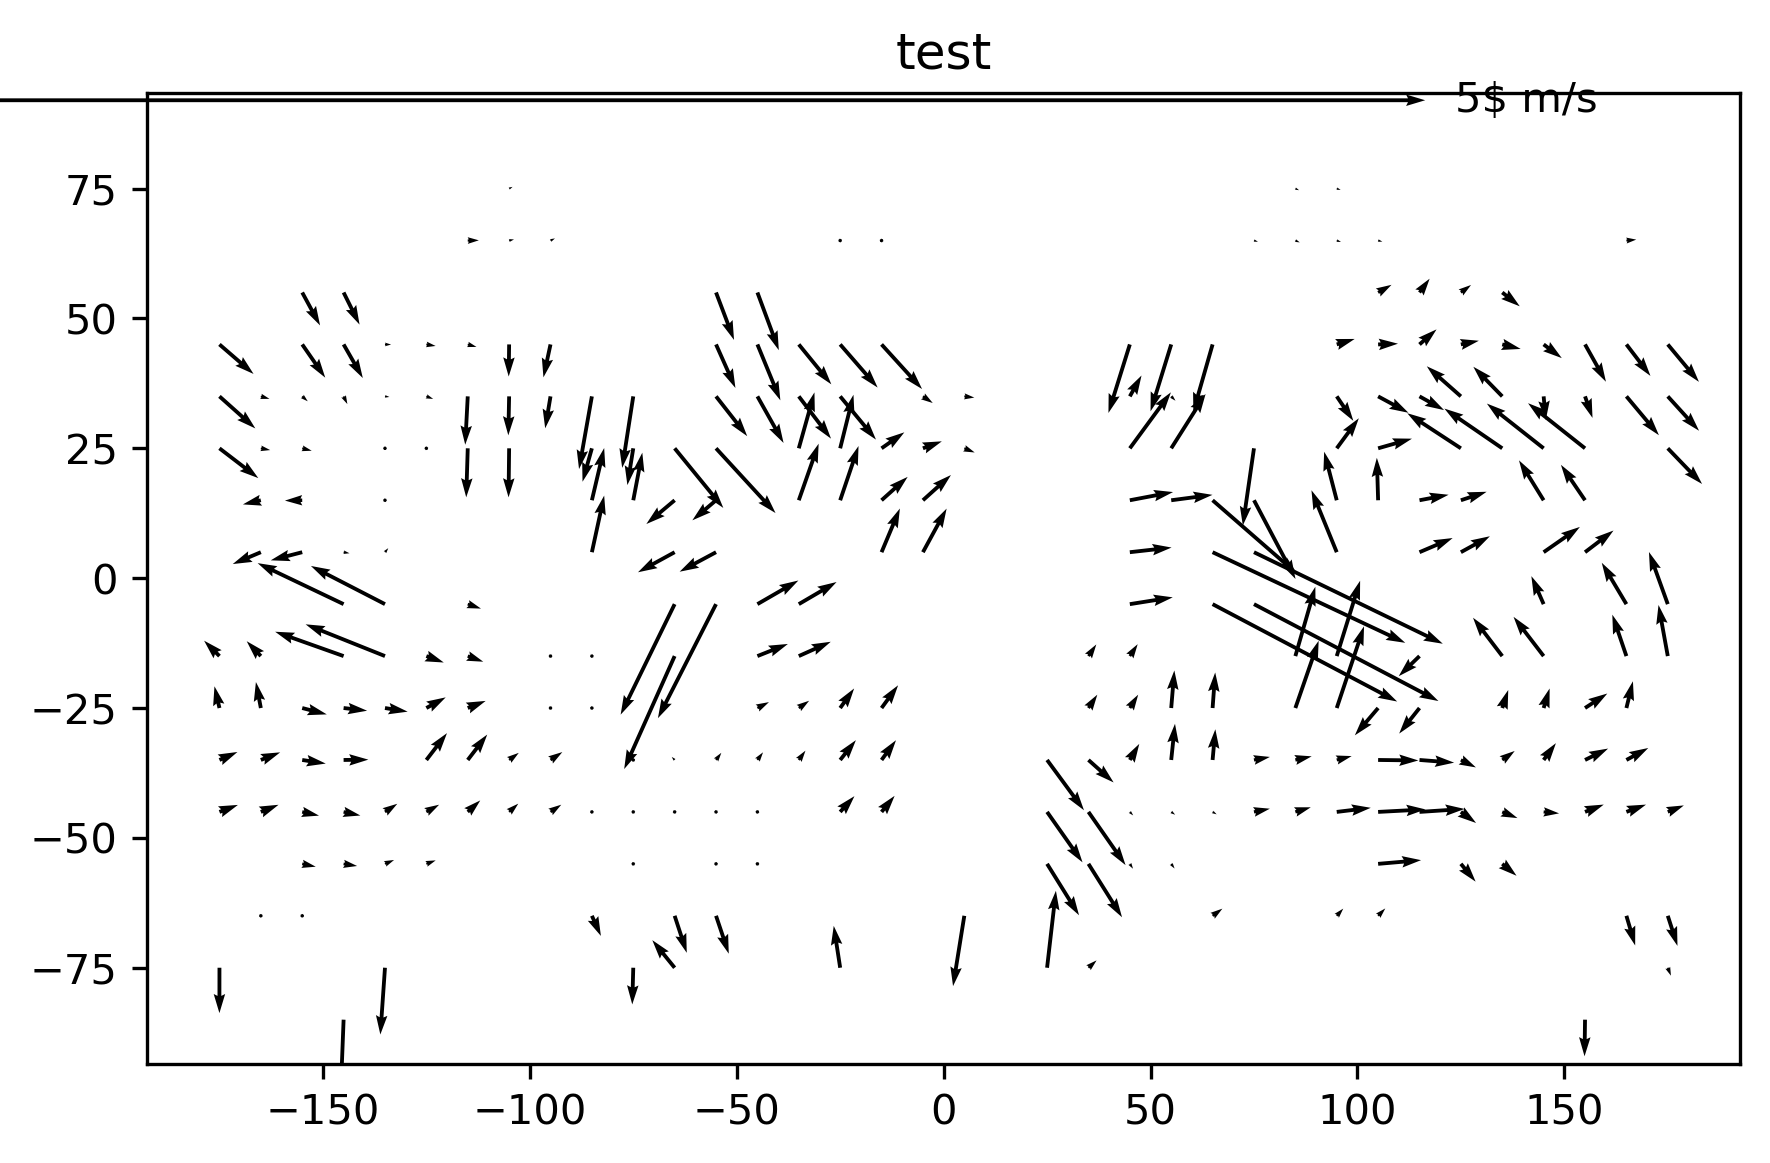
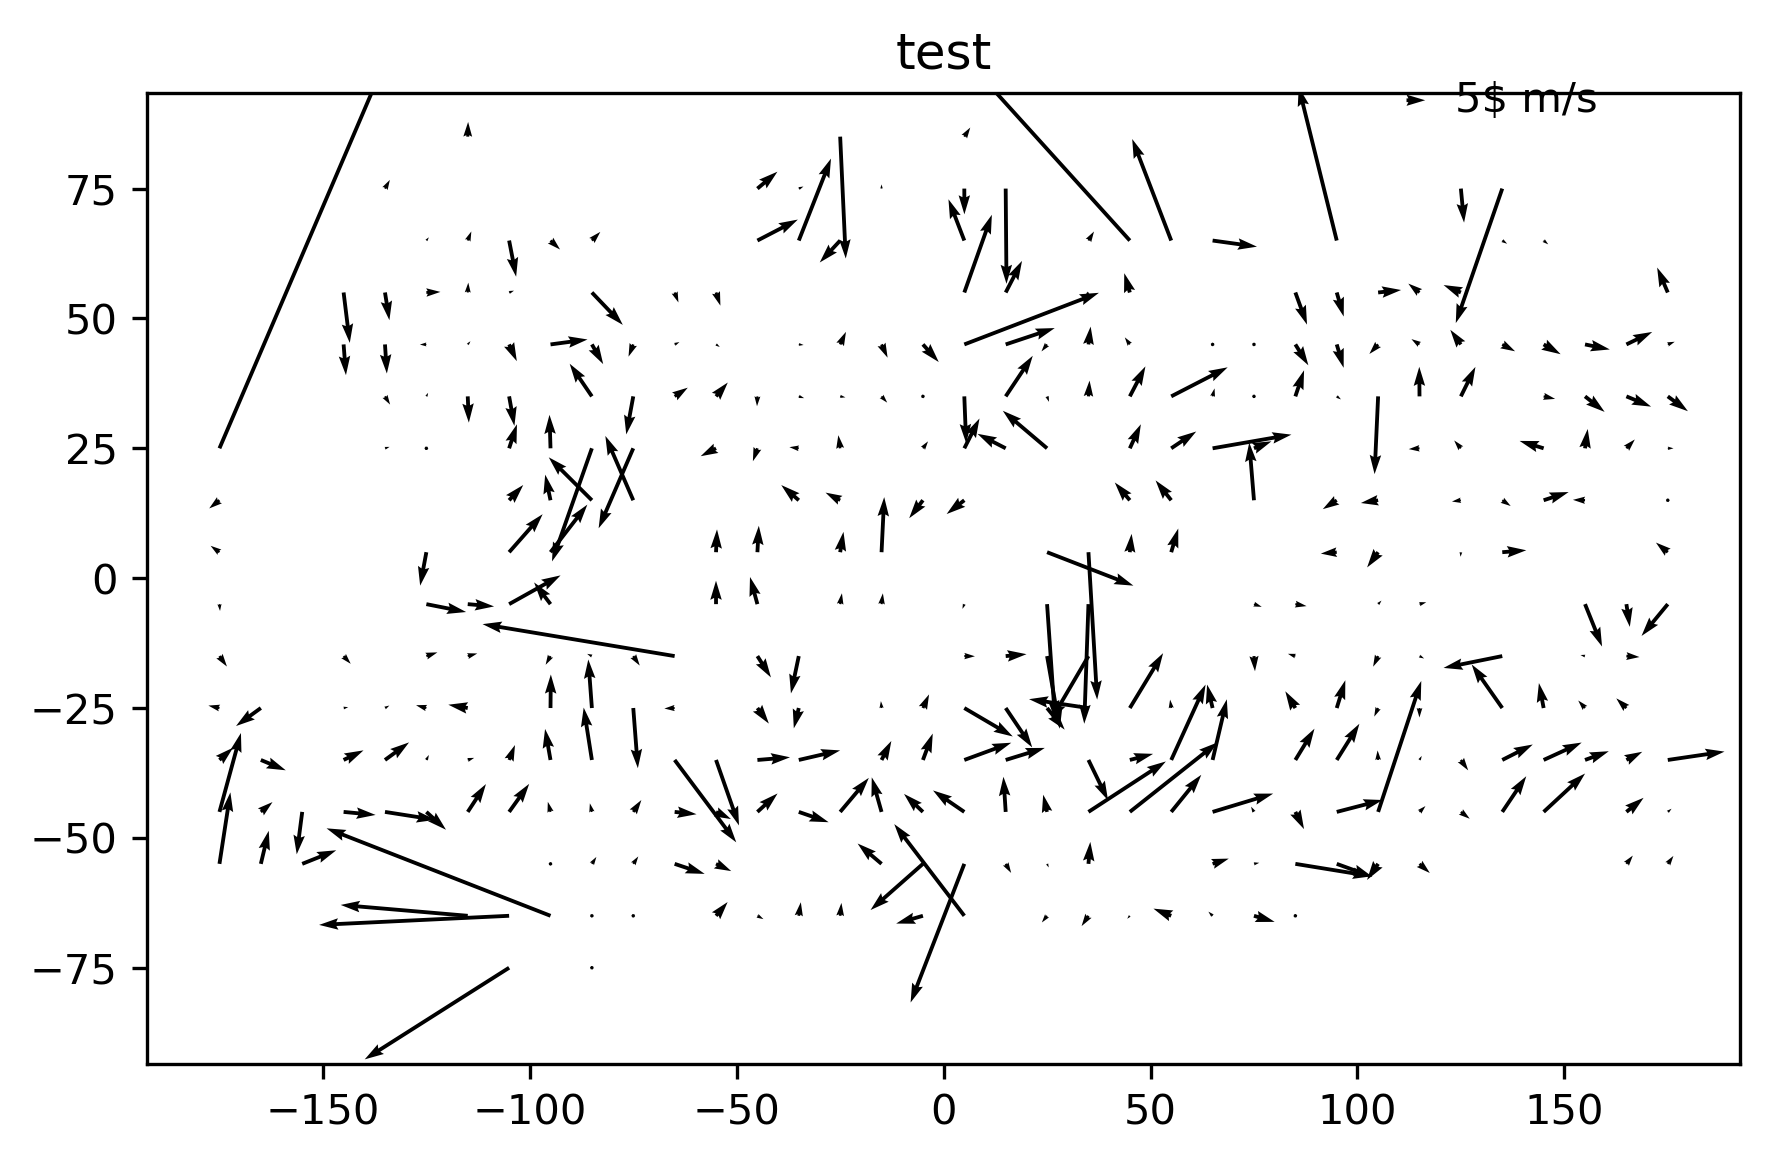
plots for presentation

diff --git a/src/quiver.py b/src/quiver.py
@@ -27,26 +27,31 @@ def quiver_plot(ds, title, u, v):
     
 
 def main():
-    ds=xr.open_dataset('../data/processed/real_water_vapor_noqc_test2.nc')
+    ds=xr.open_dataset('../data/processed/real_water_vapor_noqc_test2_tvl1.nc')
     print(ds)
-    breakpoint()
     ds['theta']=  np.arctan(ds['v']/ ds['u'])
     print(abs(ds['flowx']).mean())
     print(abs(ds['u']).mean())
+    print(abs(ds['u_era5']).mean())
     print(abs(ds['flowy']).mean())
     print(abs(ds['v']).mean())
     print(abs(ds['dt_inv']).mean())
     print(abs(ds['theta']).mean())
-    ds['u'].plot.hist(bins=100)
-    plt.show()
-    plt.close()
-    ds['theta'].plot.hist(bins=100)
-    plt.show()
-    plt.close()
+    
 
-    ds_map=ds.loc[{'day':datetime(2020,7,3),'plev':slice(706,707),'time':'am','satellite':'snpp'}]
+    ds_map=ds.loc[{'day':datetime(2020,7,3),'time':'pm','satellite':'j1'}]
+    ds_map['u'].plot.hist(bins=100)
+    plt.show()
+    plt.close()
+    ds_map['u_era5'].plot.hist(bins=100)
+    plt.show()
+    plt.close()
+    ds_map['theta'].plot.hist(bins=100)
+    plt.show()
+    plt.close()
     ds_map = ds_map.coarsen(longitude=10, boundary='trim').mean().coarsen(
                 latitude=10, boundary='trim').mean()
+    
     mint=np.datetime64('2020-07-03T05:30')
     maxt=np.datetime64('2020-07-03T06:30')
     #ds_map=ds_map.where((ds_map.obs_time>mint) & (ds_map.obs_time<maxt))
@@ -61,19 +66,14 @@ def main():
     print(abs(ds['u']).mean())
     print(abs(ds['v']).mean())
     print(abs(ds['theta']).mean())
-    ds['u'].plot.hist(bins=100)
-    plt.show()
-    plt.close()
-    ds['theta'].plot.hist(bins=100)
-    plt.show()
-    plt.close()
+   
     ds = ds.assign_coords(longitude=(((ds.longitude + 180) % 360) - 180))
     ds=ds.reindex(longitude=np.sort(ds['longitude'].values))
     #ds=ds.rename({'u':'flowx','v': 'flowy'})
     #ds_map=ds.loc[{'day':datetime(2020,7,3),'plev':slice(706,707),'time':'am','satellite':'snpp'}]
     ds_map = ds.coarsen(longitude=50, boundary='trim').mean().coarsen(
                 latitude=50, boundary='trim').mean()
-    quiver_plot(ds_map, 'era5_18z')
+    quiver_plot(ds_map, 'era5_18z','u','v')
     print(ds)
 
 if __name__ == '__main__':

diff --git a/src/amv_calculators.py b/src/amv_calculators.py
@@ -12,7 +12,7 @@ import metpy.calc as mpcalc
 from metpy.units import units
 import inpainter 
 import quiver
-
+import first_stage_amv as fsa
 
 
 R = 6371000
@@ -36,9 +36,18 @@ def calc(frame0, frame):
                             alpha=0, beta=255, norm_type=cv2.NORM_MINMAX, dtype=cv2.CV_8UC1)
     nframe = cv2.normalize(src=frame, dst=None,
                             alpha=0, beta=255, norm_type=cv2.NORM_MINMAX, dtype=cv2.CV_8UC1)
-    optical_flow = cv2.optflow.createOptFlow_DeepFlow()
-    #flowd = optical_flow.calc(nframe0, nframe, None)
-    flowd=cv2.calcOpticalFlowFarneback(nframe0,nframe, None, 0.5, 3, 5, 3, 5, 1.2, 0)
+    #optical_flow = cv2.optflow.createOptFlow_DeepFlow()
+    if fsa.ALG == 'tvl1':
+        print('tvl1')
+        print('tvl1')
+        print('tvl1')
+        print('tvl1')
+        print('tvl1')
+        print('tvl1')
+        optical_flow=cv2.optflow.createOptFlow_DualTVL1()
+        flowd = optical_flow.calc(nframe0, nframe, None)
+    else:
+        flowd=cv2.calcOpticalFlowFarneback(nframe0,nframe, None, 0.5, 3, 20, 3, 7, 1.2, 0)
     flowx=flowd[:,:,0]
     flowy=flowd[:,:,1]
      
@@ -46,7 +55,7 @@ def calc(frame0, frame):
  
 def frame_retreiver(ds):
     frame= np.squeeze(ds[LABEL].values)  
-    frame=np.nan_to_num(frame)
+    #frame=np.nan_to_num(frame)
     frame=inpainter.drop_nan(frame)
     return frame
     
@@ -157,7 +166,7 @@ def amv_calculator(ds_merged, df):
     ds_merged=ds_merged.where(ds_merged['specific_humidity_mean'])
     df_j1=ds_j1.to_dataframe().dropna()
     df_snpp=ds_snpp.to_dataframe().dropna()
-    df_model=ds_merged[['u','v']].to_dataframe().dropna()   
+    df_model=ds_merged[['u','v']].loc[{'satellite':'snpp'}].drop('satellite').to_dataframe().dropna()   
     df=df_filler(df, df_snpp)
     df=df_filler(df, df_j1)
     df=df_filler_model(df, df_j1, df_model)

diff --git a/src/first_stage_amv.py b/src/first_stage_amv.py
@@ -14,7 +14,7 @@ import inpainter
 import amv_calculators as calc
 import quiver
 import plotter
-
+ALG='tvl1'
 
 
 R = 6371000
@@ -44,6 +44,7 @@ def ds_unit_calc(ds, day,pressure, time):
     swathes=calc.swath_initializer(ds,5)
   
     for swath in swathes:
+        print(time)
         ds_snpp=ds.loc[{'satellite':'snpp'}]
         ds_j1=ds.loc[{'satellite':'j1'}]
         start=swath[0]
@@ -102,7 +103,7 @@ def main():
     print(ds_total)
         
         
-    ds_total.to_netcdf('../data/processed/real_water_vapor_noqc_test2.nc')
+    ds_total.to_netcdf('../data/processed/real_water_vapor_noqc_test2_'+ALG+'.nc')
 
 if __name__ == '__main__':
     main()
